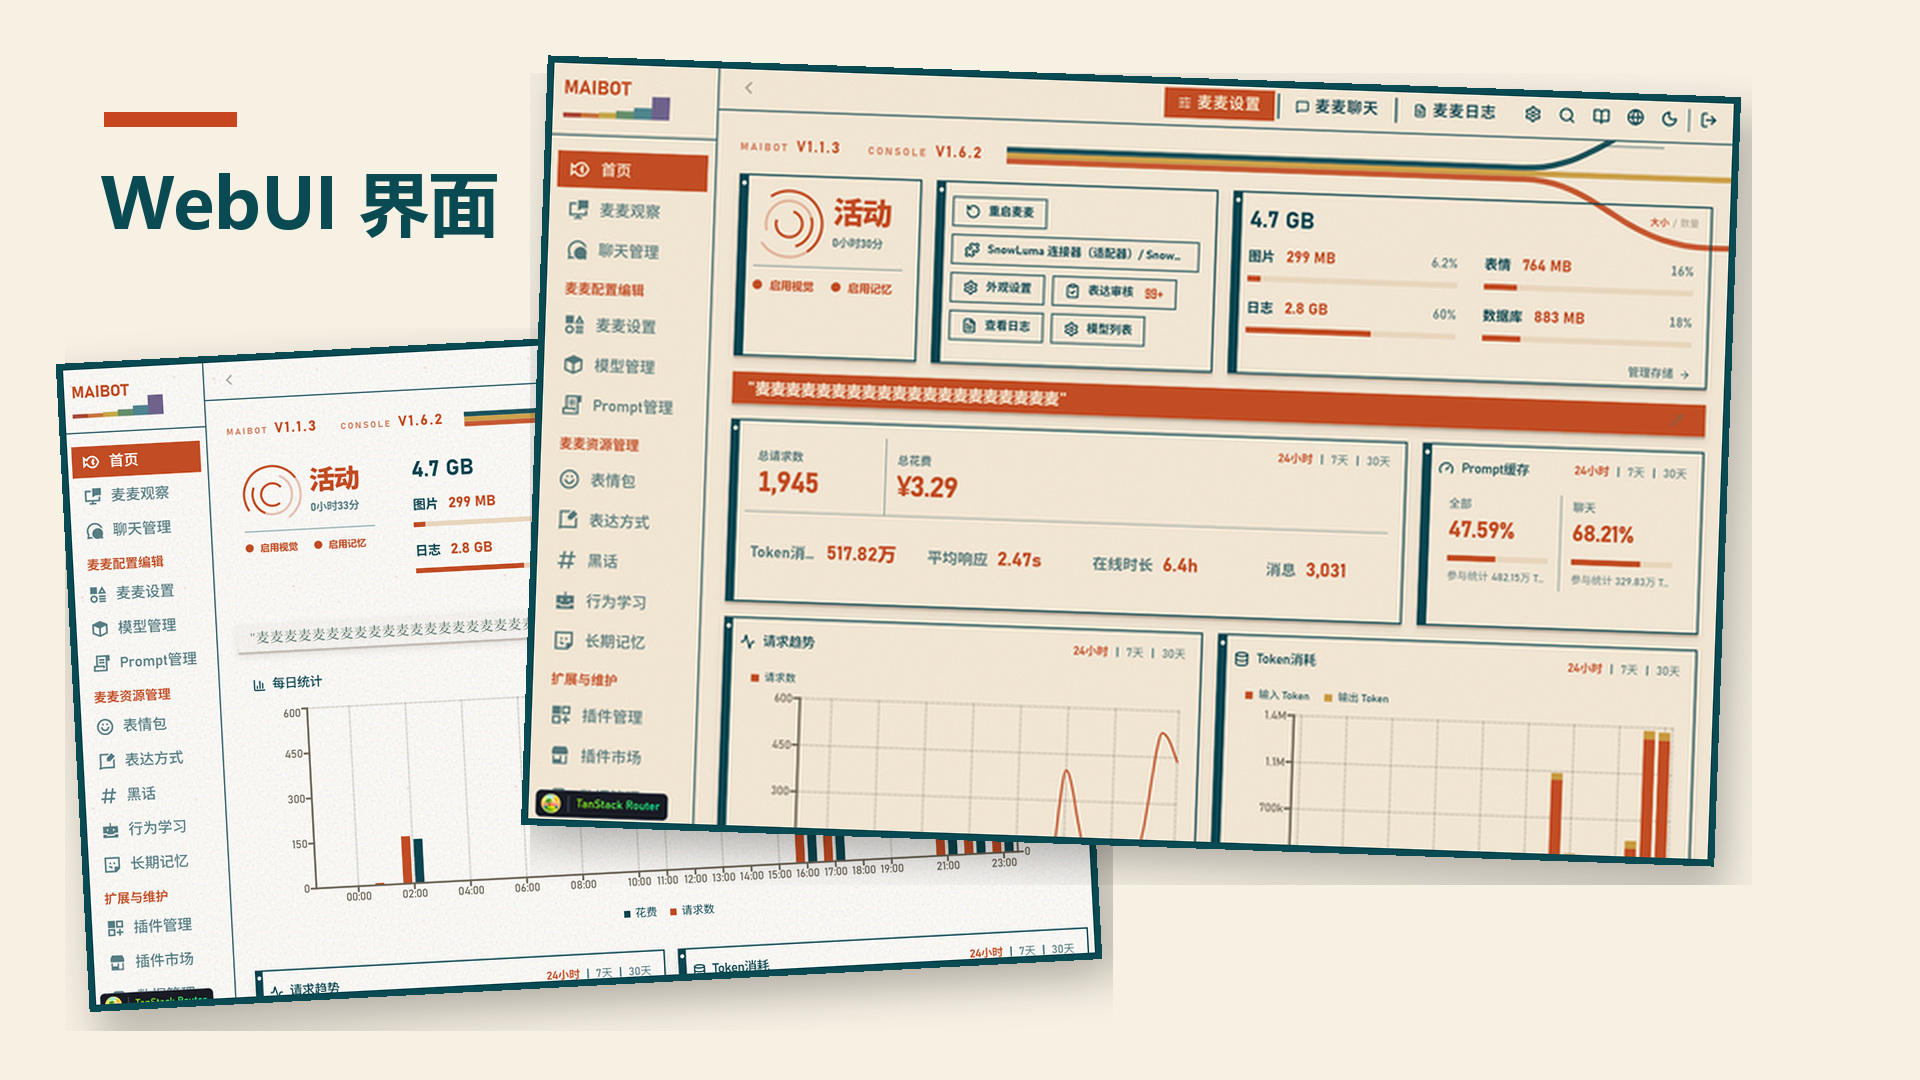
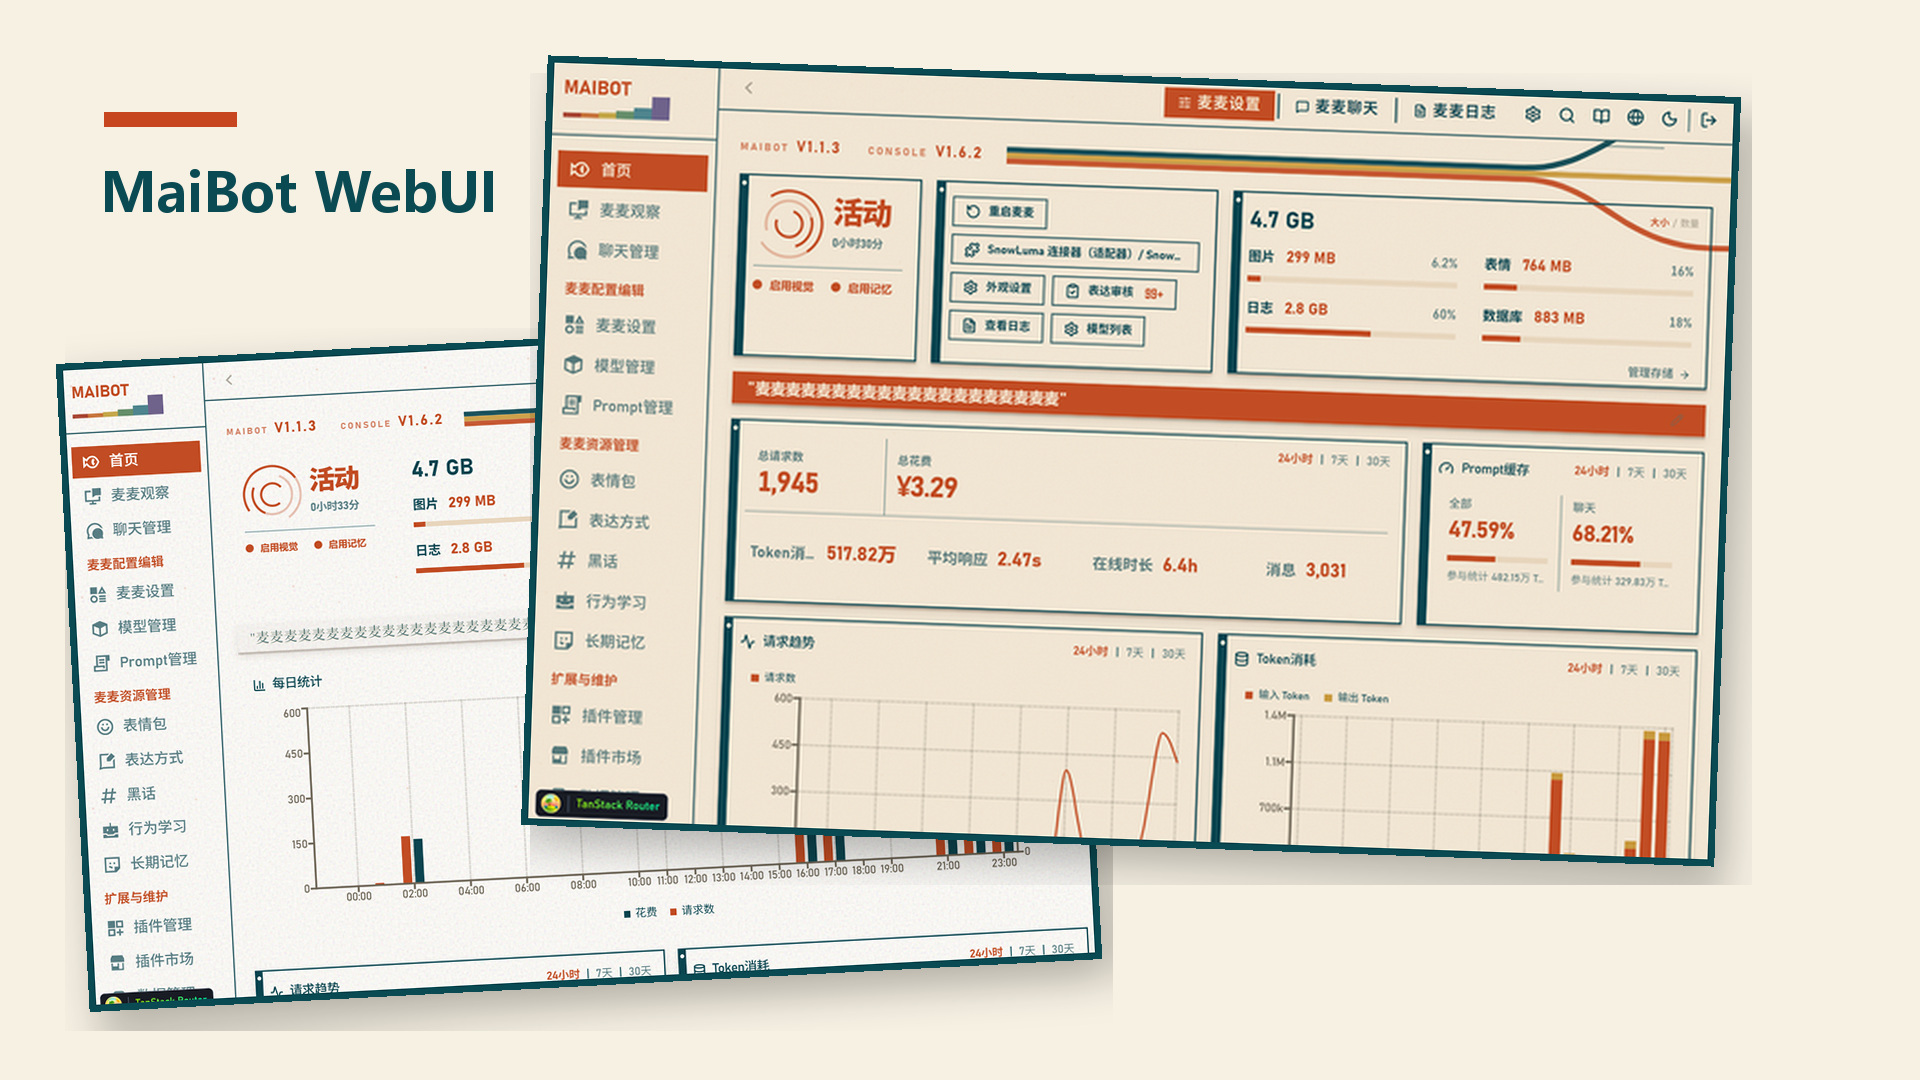
doc: 优化rm

Changed region(s): [[0.0312, 0.1528, 0.2812, 0.2444]]

diff --git a/README.md b/README.md
@@ -46,31 +46,6 @@ MaiSaka 不仅仅是一个机器人，不仅仅是一个可以帮你完成任务
 - 🔌 **插件系统**：提供强大的 API 和事件系统，拥有无限扩展可能。  
   <sub><sup><strong>Plugin system</strong>: Provides powerful APIs and an event system with virtually unlimited room for extension.</sup></sub>
 
-### 快速导航
-<sub><sup>Quick Navigation</sup></sub>
-
-<p>
-  <a href="https://www.bilibili.com/video/BV1amAneGE3P">🌟 演示视频 <sub>Demo Video</sub></a> &nbsp;|&nbsp;
-  <a href="#-更新和安装--updates-and-installation">📦 快速入门 <sub>Quick Start</sub></a> &nbsp;|&nbsp;
-  <a href="#-部署教程--deployment-guide">📃 核心文档 <sub>Core Documentation</sub></a> &nbsp;|&nbsp;
-  <a href="#-讨论与社区--discussion-and-community">💬 加入社区 <sub>Join Community</sub></a>
-</p>
-
-<!-- Clear float to ensure subsequent content starts below the image area if text is short -->
-<br clear="both">
-
-<div align="center">
-  <br>
-  <a href="https://www.bilibili.com/video/BV1amAneGE3P" target="_blank">
-    <picture>
-      <source media="(max-width: 600px)" srcset="depends-data/video.png" width="100%">
-      <img src="depends-data/video.png" width="60%" alt="麦麦演示视频" style="border-radius: 10px; box-shadow: 0 4px 8px rgba(0,0,0,0.1);">
-    </picture>
-    <br>
-    <small>前往观看麦麦演示视频 / Watch the MaiSaka demo video</small>
-  </a>
-</div>
-
 <div align="center">
   <br>
   <img src="depends-data/webui-showcase.jpg" width="90%" alt="MaiBot WebUI 界面" style="box-shadow: 0 4px 8px rgba(0,0,0,0.1);">
@@ -107,6 +82,19 @@ MaiSaka 不仅仅是一个机器人，不仅仅是一个可以帮你完成任务
 
 - **[📚 麦麦文档](https://docs.mai-mai.org)**：最全面的文档中心，了解麦麦的一切。  
   <sub><sup><strong><a href="https://docs.mai-mai.org">📚 Documentation</a></strong>: The most comprehensive documentation hub for everything about MaiSaka.</sup></sub>
+
+
+- **[演示视频]**
+<div>
+  <a href="https://www.bilibili.com/video/BV1amAneGE3P" target="_blank">
+    <picture>
+      <source media="(max-width: 600px)" srcset="depends-data/video.png" width="100%">
+      <img src="depends-data/video.png" width="40%" alt="麦麦演示视频" style="border-radius: 10px; box-shadow: 0 4px 8px rgba(2, 1, 1, 0.1);">
+    </picture>
+    <br>
+    <small>前往麦麦演示视频 / Watch the MaiSaka video</small>
+  </a>
+</div>
 
 ---
 
